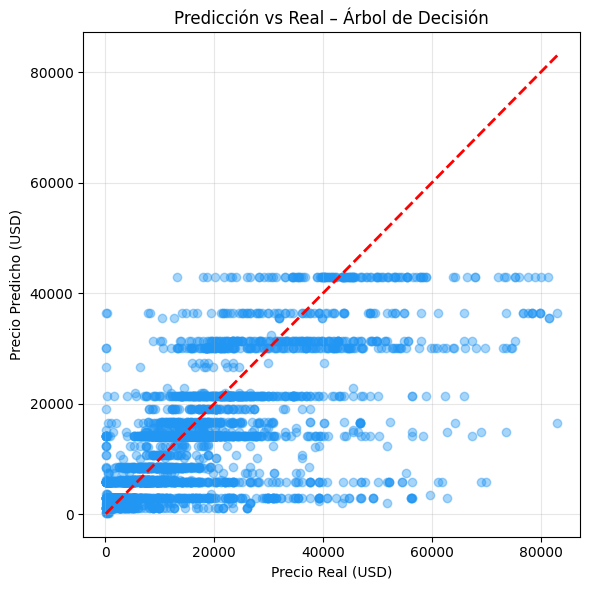
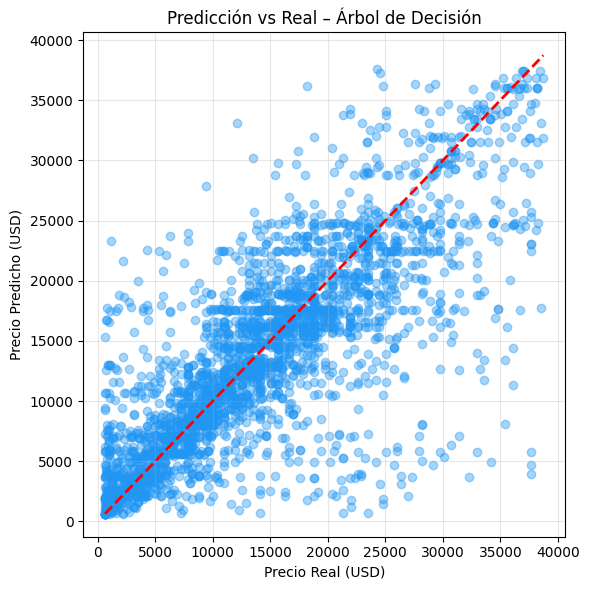
feat: Hiperparametrización de arbol de decisión

diff --git a/src/preprocessing.py b/src/preprocessing.py
@@ -48,7 +48,7 @@ def clean_data(df: pd.DataFrame) -> pd.DataFrame:
     print(f"✅ Se completaron los valores nulos (antes: {total_nulls_before}, ahora: {total_nulls_after})")
 
     # 7. Eliminar outliers en la variable objetivo (Price)
-    q1, q99 = df["Price"].quantile([0.01, 0.99])
+    q1, q99 = df["Price"].quantile([0.10, 0.90])
     before = df.shape[0]
     df = df[(df["Price"] >= q1) & (df["Price"] <= q99)]
     after = df.shape[0]

diff --git a/src/models.py b/src/models.py
@@ -41,7 +41,7 @@ def train_tree_model(X_train, X_test, y_train, y_test):
     """Entrena un modelo de árbol de decisión"""
     print("\n🌳 Entrenando modelo: Árbol de Decisión...")
 
-    model = DecisionTreeRegressor(max_depth=6, min_samples_split=20, random_state=42)
+    model = DecisionTreeRegressor(max_depth=16, min_samples_split=20, random_state=63)
     model.fit(X_train, y_train)
     y_pred = model.predict(X_test)
 
